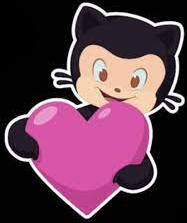
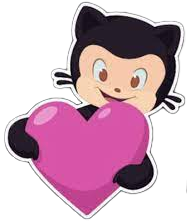
Add new images

diff --git a/README.md b/README.md
@@ -22,7 +22,7 @@ I'm available for consulting in Haptics, VR, Virtual Worlds, hardware/driver dev
 
 If you like my work but are just interested in sponsoring instead of consulting, you can [sponsor me on github](https://github.com/sponsors/qdot)! There are tier levels with perks like stickers, credits in my youtube videos, and 1:1 video conferences!
 
-<p align="center"><img src="https://github.com/qdot/qdot/blob/main/patreon.png?raw=true" alt="Patreon"></p>
+<p align="center"><img src="https://github.com/qdot/qdot/blob/main/patreon.png?raw=true" alt="Patreon" width="200" height="200"></p>
 
 If Patreon works better for you:
 
